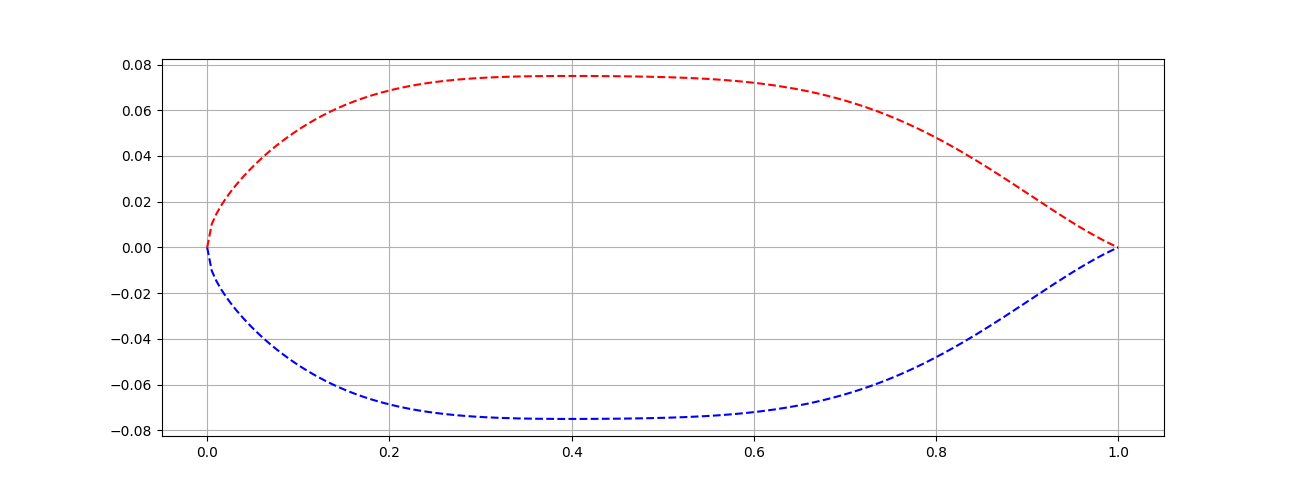
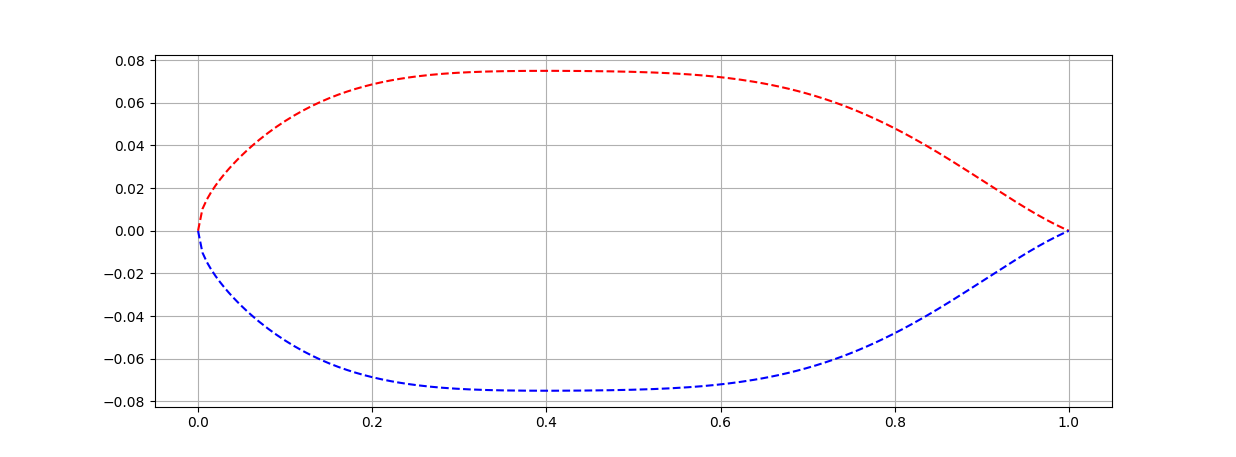
fix: don't ignore trailing edge thickness
Thanks to: DavidAnderegg

diff --git a/libairfoil/parsec.py b/libairfoil/parsec.py
@@ -58,14 +58,14 @@ class Coefficients(object):
     
     def _calc_a_up(self, parsec_params):
         Amat = self._prepare_linsys_Amat(parsec_params.X_up)
-        Bvec = numpy.array([parsec_params.Z_te, parsec_params.Z_up,
+        Bvec = numpy.array([parsec_params.Z_te + parsec_params.dZ_te/2, parsec_params.Z_up,
                             math.tan(parsec_params.alpha_te - parsec_params.beta_te/2),
                             0.0, parsec_params.Z_XX_up, math.sqrt(2*parsec_params.r_le)]) 
         return numpy.linalg.solve(Amat, Bvec)
     
     def _calc_a_lo(self, parsec_params):
         Amat = self._prepare_linsys_Amat(parsec_params.X_lo)
-        Bvec = numpy.array([parsec_params.Z_te, parsec_params.Z_lo,
+        Bvec = numpy.array([parsec_params.Z_te - parsec_params.dZ_te/2, parsec_params.Z_lo,
                             math.tan(parsec_params.alpha_te + parsec_params.beta_te/2),
                             0.0, parsec_params.Z_XX_lo, -math.sqrt(2*parsec_params.r_le)])
         return numpy.linalg.solve(Amat, Bvec)
